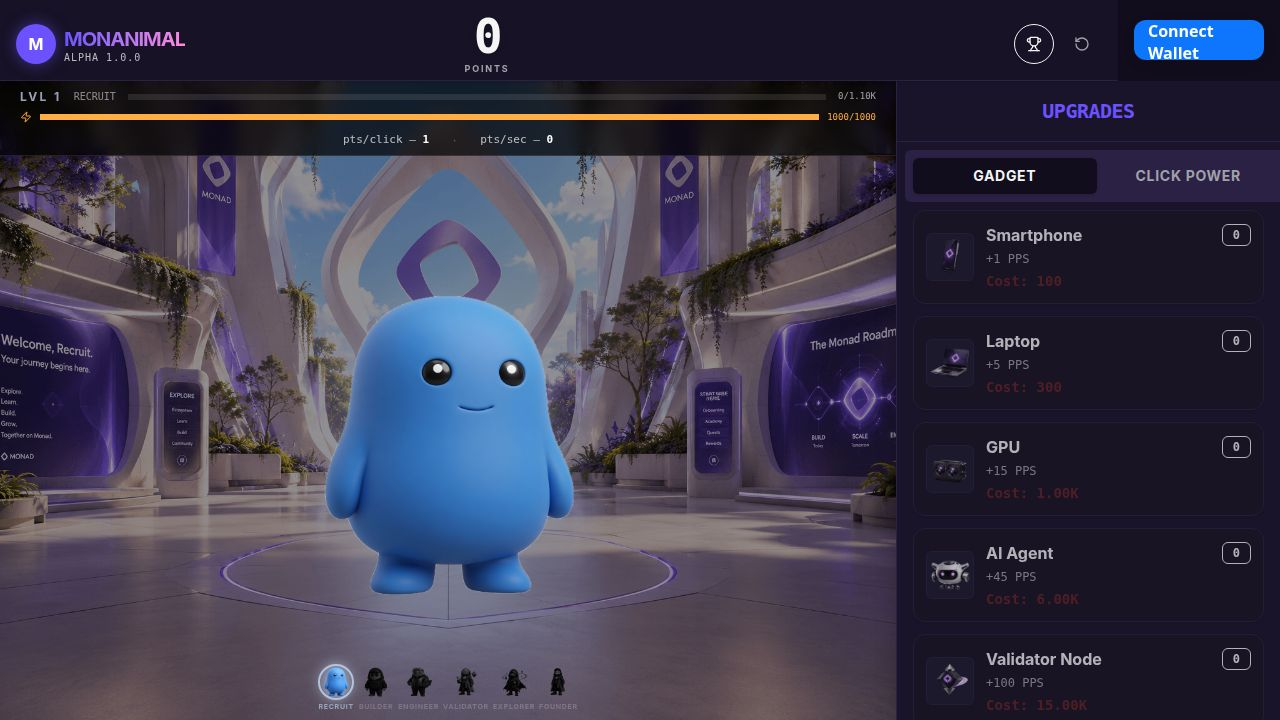
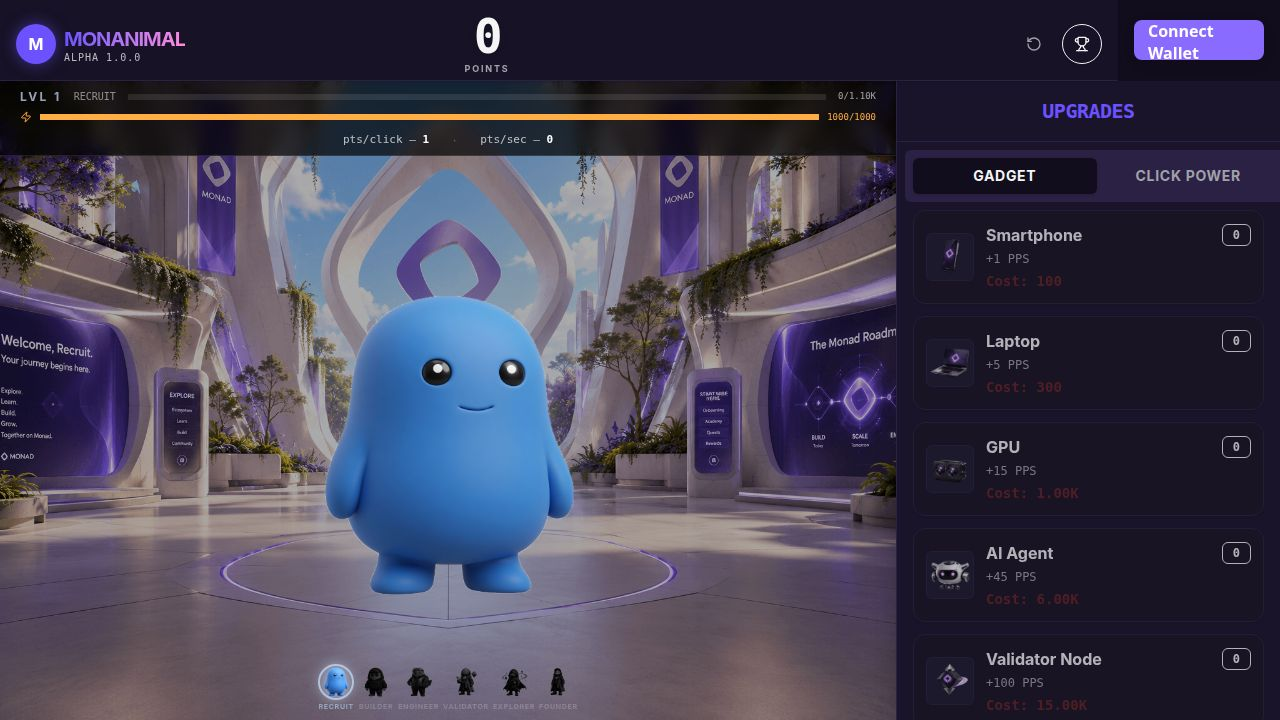
Adjust button order, wallet button style, and language settings
Updates the order of buttons, removes the dark blue border from the wallet connection button, and sets the language to English for the RainbowKit provider.

Replit-Commit-Author: Agent
Replit-Commit-Session-Id: d3fe86e3-a6e9-4462-bb4e-59e61efe846c
Replit-Commit-Checkpoint-Type: full_checkpoint
Replit-Commit-Event-Id: d7a602aa-5361-4ac5-9bc3-5872d82d1202
Replit-Commit-Screenshot-Url: https://storage.googleapis.com/screenshot-production-us-central1/caf79b2d-98a2-4ba5-a6ef-3656bfb3bf19/d3fe86e3-a6e9-4462-bb4e-59e61efe846c/rLb7nG9

diff --git a/artifacts/monanimal-clicker/src/components/TopBar.tsx b/artifacts/monanimal-clicker/src/components/TopBar.tsx
@@ -63,19 +63,6 @@ export default function TopBar({ onShowAchievements }: TopBarProps) {
 
           {/* Right: desktop controls */}
           <div className="hidden md:flex items-center gap-1 md:gap-2 px-4 flex-shrink-0 justify-end md:w-80 lg:w-96">
-            <div className="relative">
-              <Button
-                variant="outline"
-                size="icon"
-                onClick={onShowAchievements}
-                className="rounded-full shadow-sm hover:border-primary hover:text-primary transition-colors h-8 w-8 md:h-10 md:w-10"
-              >
-                <Trophy className="h-4 w-4 md:h-5 md:w-5" />
-              </Button>
-              {hasUnseen && (
-                <span className="absolute -top-0.5 -right-0.5 w-2.5 h-2.5 rounded-full bg-red-500 border border-background" />
-              )}
-            </div>
             <AnimatePresence mode="wait">
               {confirmReset ? (
                 <motion.div
@@ -121,6 +108,19 @@ export default function TopBar({ onShowAchievements }: TopBarProps) {
                 </motion.div>
               )}
             </AnimatePresence>
+            <div className="relative">
+              <Button
+                variant="outline"
+                size="icon"
+                onClick={onShowAchievements}
+                className="rounded-full shadow-sm hover:border-primary hover:text-primary transition-colors h-8 w-8 md:h-10 md:w-10"
+              >
+                <Trophy className="h-4 w-4 md:h-5 md:w-5" />
+              </Button>
+              {hasUnseen && (
+                <span className="absolute -top-0.5 -right-0.5 w-2.5 h-2.5 rounded-full bg-red-500 border border-background" />
+              )}
+            </div>
           </div>
 
           {/* Right: mobile gear button */}
@@ -170,21 +170,6 @@ export default function TopBar({ onShowAchievements }: TopBarProps) {
 
               {/* Items */}
               <div className="flex flex-col px-5 py-3 pb-5 gap-1">
-                {/* Achievements */}
-                <button
-                  onClick={handleOpenAchievements}
-                  className="flex items-center justify-between w-full py-3 border-b border-border/50"
-                >
-                  <div className="flex items-center gap-3">
-                    <Trophy className="h-5 w-5 text-primary" />
-                    <span className="text-sm font-bold text-foreground">Achievements</span>
-                    {hasUnseen && (
-                      <span className="w-2 h-2 rounded-full bg-red-500 inline-block" />
-                    )}
-                  </div>
-                  <span className="text-muted-foreground text-xs">›</span>
-                </button>
-
                 {/* Reset Progress */}
                 <AnimatePresence mode="wait">
                   {confirmReset ? (
@@ -193,7 +178,7 @@ export default function TopBar({ onShowAchievements }: TopBarProps) {
                       initial={{ opacity: 0, height: 0 }}
                       animate={{ opacity: 1, height: "auto" }}
                       exit={{ opacity: 0, height: 0 }}
-                      className="overflow-hidden"
+                      className="overflow-hidden border-b border-border/50"
                     >
                       <div className="py-3 flex flex-col gap-2">
                         <p className="text-xs text-muted-foreground">All progress will be permanently deleted.</p>
@@ -220,7 +205,7 @@ export default function TopBar({ onShowAchievements }: TopBarProps) {
                       animate={{ opacity: 1 }}
                       exit={{ opacity: 0 }}
                       onClick={() => setConfirmReset(true)}
-                      className="flex items-center justify-between w-full py-3"
+                      className="flex items-center justify-between w-full py-3 border-b border-border/50"
                     >
                       <div className="flex items-center gap-3">
                         <RotateCcw className="h-5 w-5" style={{ color: "#E60000" }} />
@@ -230,6 +215,21 @@ export default function TopBar({ onShowAchievements }: TopBarProps) {
                     </motion.button>
                   )}
                 </AnimatePresence>
+
+                {/* Achievements */}
+                <button
+                  onClick={handleOpenAchievements}
+                  className="flex items-center justify-between w-full py-3"
+                >
+                  <div className="flex items-center gap-3">
+                    <Trophy className="h-5 w-5 text-primary" />
+                    <span className="text-sm font-bold text-foreground">Achievements</span>
+                    {hasUnseen && (
+                      <span className="w-2 h-2 rounded-full bg-red-500 inline-block" />
+                    )}
+                  </div>
+                  <span className="text-muted-foreground text-xs">›</span>
+                </button>
               </div>
 
               <p className="text-center text-[12px] text-white/60 font-mono pt-2">

diff --git a/artifacts/monanimal-clicker/src/App.tsx b/artifacts/monanimal-clicker/src/App.tsx
@@ -6,8 +6,18 @@ import NotFound from "@/pages/not-found";
 import Game from "@/pages/Game";
 import "@rainbow-me/rainbowkit/styles.css";
 import { WagmiProvider } from "wagmi";
-import { RainbowKitProvider } from "@rainbow-me/rainbowkit";
+import { RainbowKitProvider, darkTheme } from "@rainbow-me/rainbowkit";
 import { wagmiConfig } from "@/lib/wagmi";
+
+const rainbowKitTheme = darkTheme({
+  accentColor: "hsl(252, 100%, 71%)",
+  accentColorForeground: "white",
+  borderRadius: "medium",
+  overlayBlur: "small",
+});
+rainbowKitTheme.colors.connectButtonBackground = "hsl(240, 10%, 12%)";
+rainbowKitTheme.colors.connectButtonInnerBackground = "hsl(240, 10%, 12%)";
+rainbowKitTheme.colors.connectButtonText = "white";
 
 const queryClient = new QueryClient();
 
@@ -24,7 +34,7 @@ function App() {
   return (
     <WagmiProvider config={wagmiConfig}>
       <QueryClientProvider client={queryClient}>
-        <RainbowKitProvider>
+        <RainbowKitProvider theme={rainbowKitTheme} locale="en">
           <TooltipProvider>
             <WouterRouter base={import.meta.env.BASE_URL.replace(/\/$/, "")}>
               <Router />
